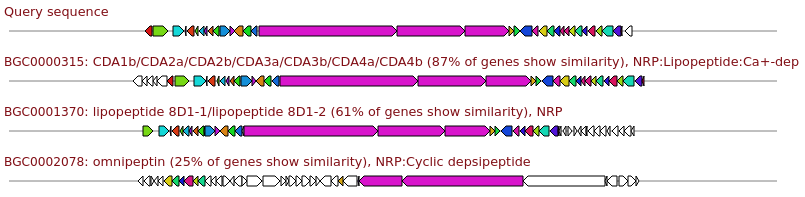
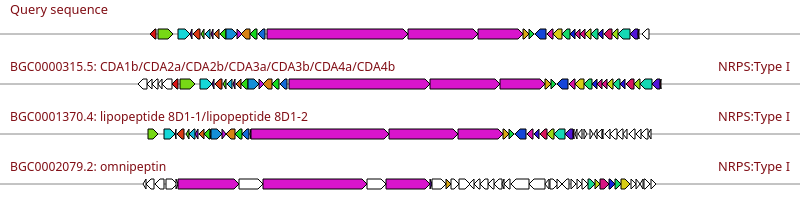
modules/clusterblast: update for antiSMASH 8 visuals

diff --git a/docs/modules/clusterblast.md b/docs/modules/clusterblast.md
@@ -16,6 +16,15 @@ with a minimum percentage identity between genes of 30%.
 
 It is normal to have multiple genes hitting for some types of genes (e.g. modular systems such as NRPS or Type I PKS clusters).
 
+As gene hits are not required to be 100% identity and query genes may hit multiple reference genes,
+all genes having a match is not a guarantee that the region is exactly the same.
+In the case of KnownClusterBlast, this also means that there is no guarantee that the compound(s) recorded for that MIBiG entry will be produced by the region.
+
+Even if 100% of genes have a hit for a reference, it may be less relevant than a lower similarity.
+Some cluster types, e.g. NRPS clusters, may only need a few aminos changed in gene translations to have a completely different product.
+
+In all cases, manual verification is required before assuming that the region produces the same compound as the reference.
+
 ### Ranking system
 
 Reference areas are sorted based on an empirical similarity score and then,
@@ -30,23 +39,9 @@ The emprical similarity score is calculated as `h + H + s + S + 
 - `B` is a core gene bonus
 
 If the similarity scores are equal for multiple references, they are then ranked based on
-the cumulative BlastP bit scores between the gene clusters.
+the cumulative BlastP bit scores of those references.
 
-### Similarity percentage
-
-Similarity in the description, e.g. `87% of genes show similarity`,
-is the percentage of genes within the reference that have a hit to any genes in the query.
-
-As gene hits are not required to be 100% identity and query genes may hit multiple reference genes,
-this total similarity percentage is no guarantee that the region is exactly the same.
-In the case of KnownClusterBlast, this also means that there is no guarantee that the compound(s) recorded for that MIBiG entry will be produce by the region.
-
-Even if 100% of genes have a hit for a reference, it may be less relevant than a lower similarity.
-Some cluster types, e.g. NRPS clusters, may only need a few aminos changed in gene translations to have a completely different product.
-
-In all cases, manual verification is required before assuming that the region produces the same compound as the reference.
-
-#### Example 1: low similarity, good match
+#### Example 1: not all genes, but good match
 Reference area `R` has 70% of genes showing similarity to the query region `Q`.
 All genes with hits are very high identity in their hits, at 95% or higher.
 
@@ -57,14 +52,14 @@ but are outside `Q` due to the size of `R` being exceptionally large.
 After manually checking these extra genes and seeing that they're similar to the missing genes,
 it's much, much more likely that the genome matches the reference.
 
-#### Example 2: perfect similarity, poor match
+#### Example 2: all genes, but poor match
 Reference area `R` has 100% of genes showing similarity to the query region `Q`.
 None of the genes have a percentage identity in individual hits greater than 60%.
 
 While it is still possible that `Q` produces the same compound as `R`,
 it will depend a great deal on the type of cluster and exactly which parts of the genes are similar.
 
-#### Example 3: high similarity, poor match
+#### Example 3: most genes, but poor match
 Reference area `R` has very high (but not 100%) similarity, with all but one gene in `R` having similarity to genes in the query region `Q`.
 All of the matching genes have very high identity in their hits.
 
